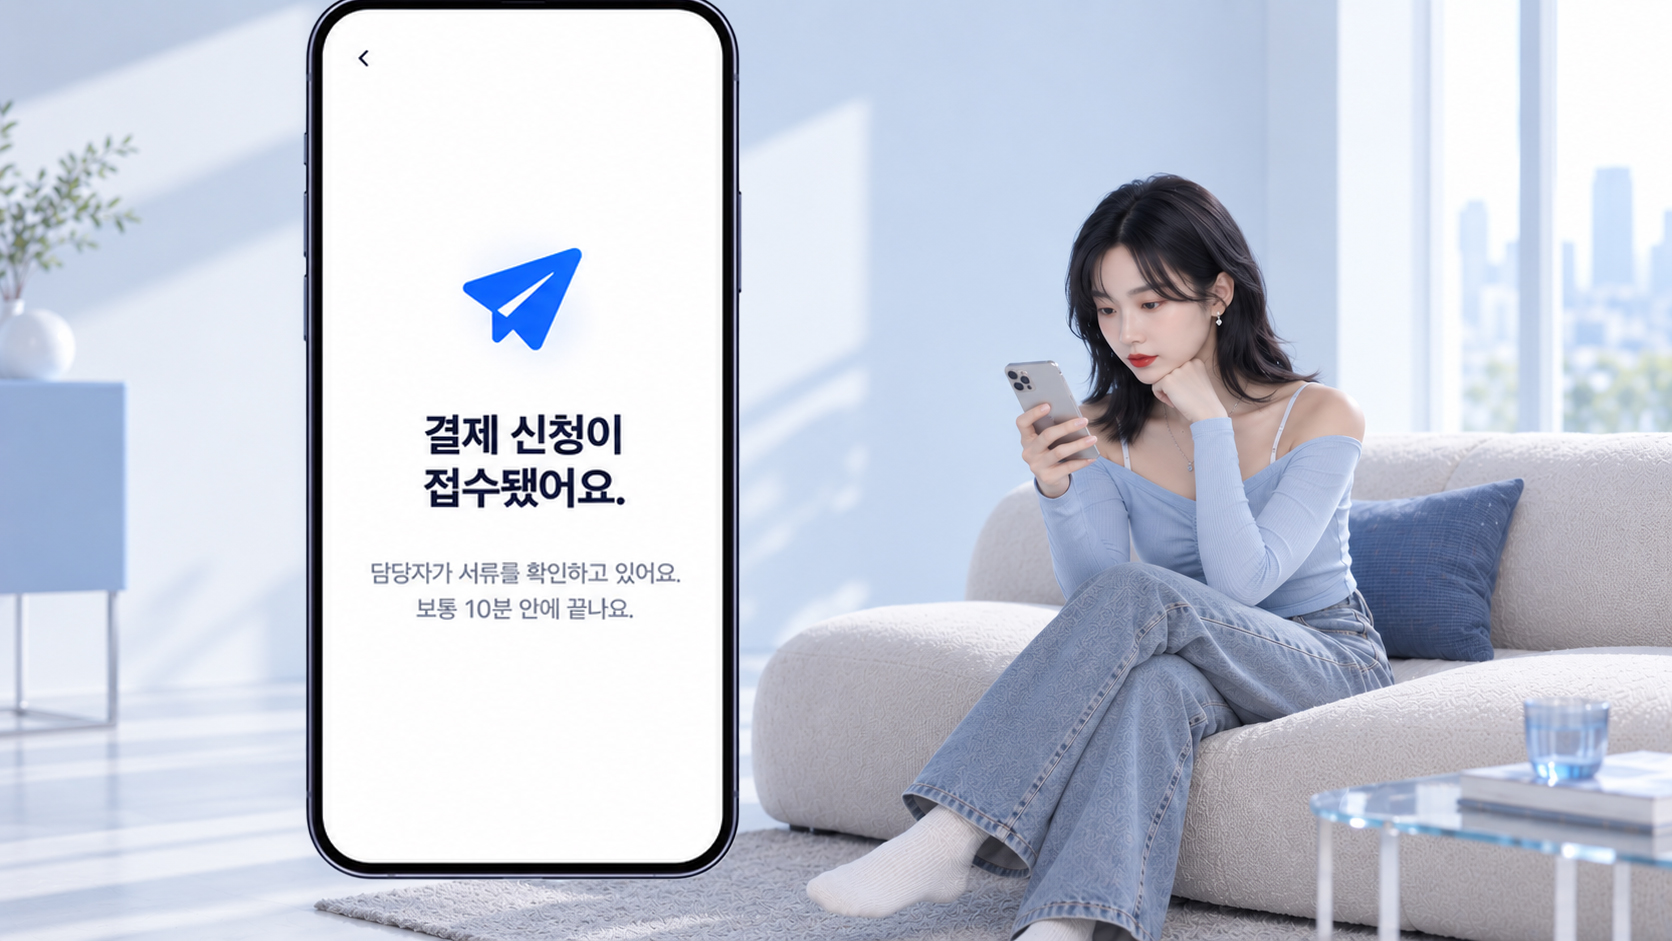
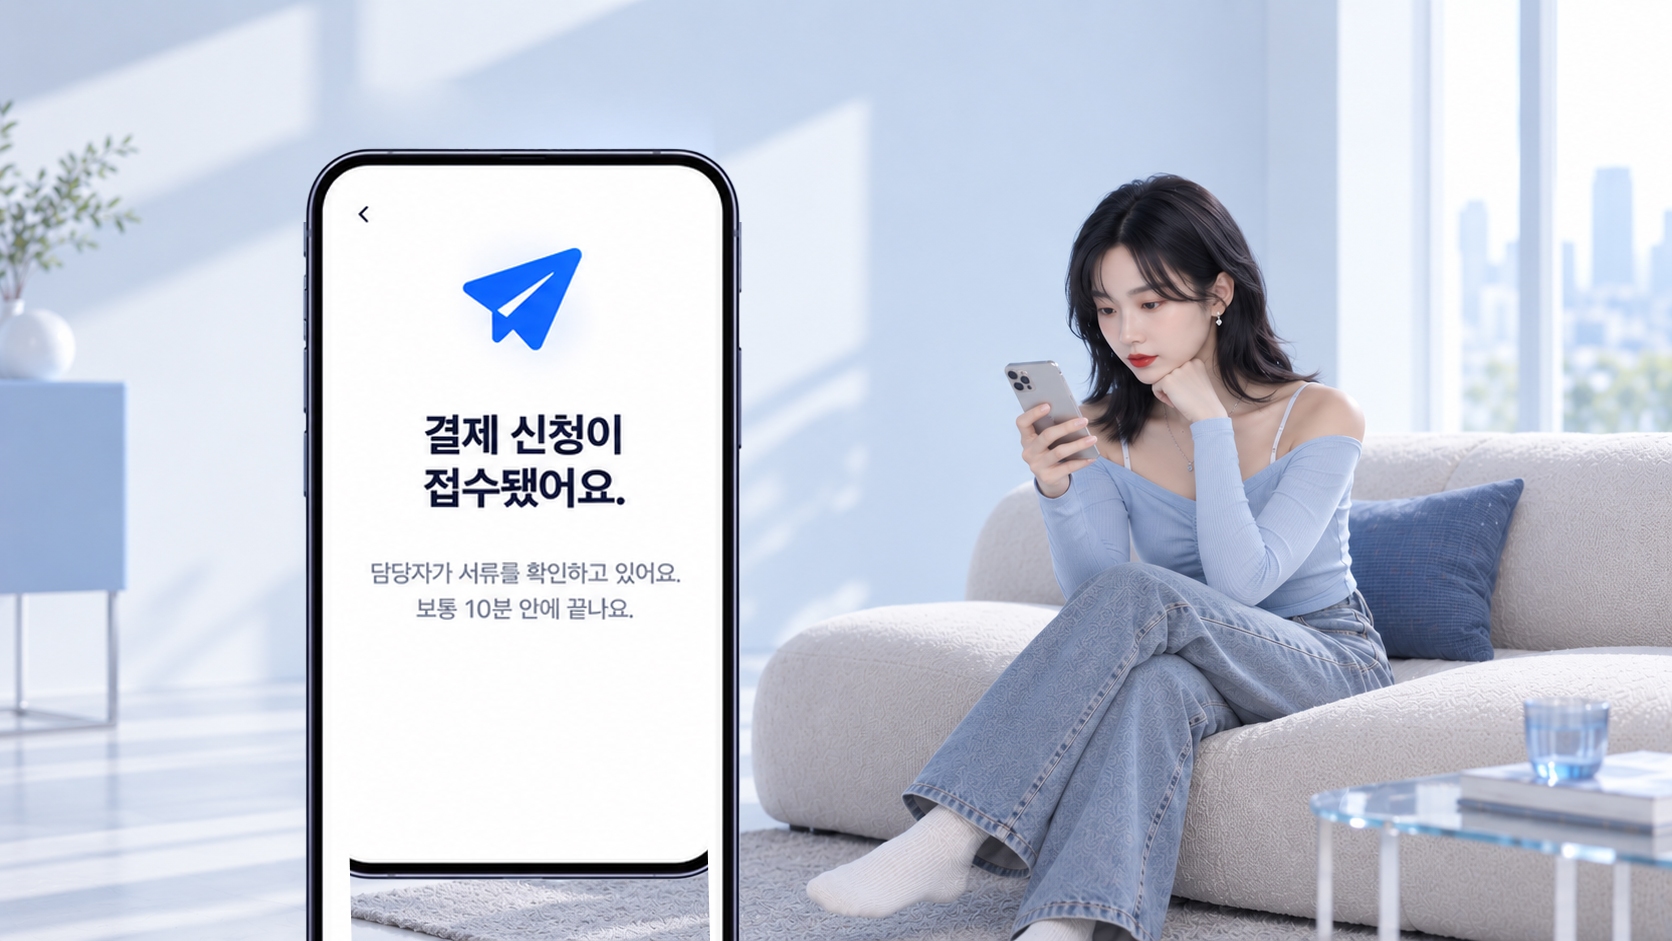
이용 방법 사진 최신본 반영 · 모바일 대제목 글자 잘림 수정

Changed region(s): [[0.1555, 0.0, 0.4665, 0.2157], [0.4043, 0.8629, 0.4665, 1.0], [0.1555, 0.8629, 0.2177, 1.0]]

diff --git a/index.html b/index.html
@@ -1194,7 +1194,9 @@
       margin-left:calc(50% - 50vw + 28px); margin-right:calc(50% - 50vw + 28px); max-width:none;
       background-attachment:fixed;}
   }
-  .bandart .h-band{color:#FFFFFF; text-shadow:0 2px 20px rgba(4,12,30,.55);}
+  /* 상자 폭을 넘기지 않게 — 넘치면 줄바꿈 */
+  .bandart .h-band{max-width:100%; color:#FFFFFF; text-shadow:0 2px 20px rgba(4,12,30,.55);}
+  @media(max-width:767px){ .bandart .h-band{font-size:min(6.6vw, 30px);} }
   .bandart .h-band .soft{color:#FFFFFF;}
   .bandart .h-band .hl{color:#B9D6FF;}
 
@@ -1404,7 +1406,7 @@
       </div>
 
       <div class="hwrap">
-        <img class="hpic" src="img/band-bg.jpg?v=1" alt="랜선페이 앱으로 결제하는 모습">
+        <img class="hpic" src="img/band-bg.jpg?v=2" alt="랜선페이 앱으로 결제하는 모습">
         <div class="hcol">
           <div class="hphone"><img id="hshot" src="img/guide_shots/login.png?v=2" alt="단계별 앱 화면"></div>
           <div class="hnav">
